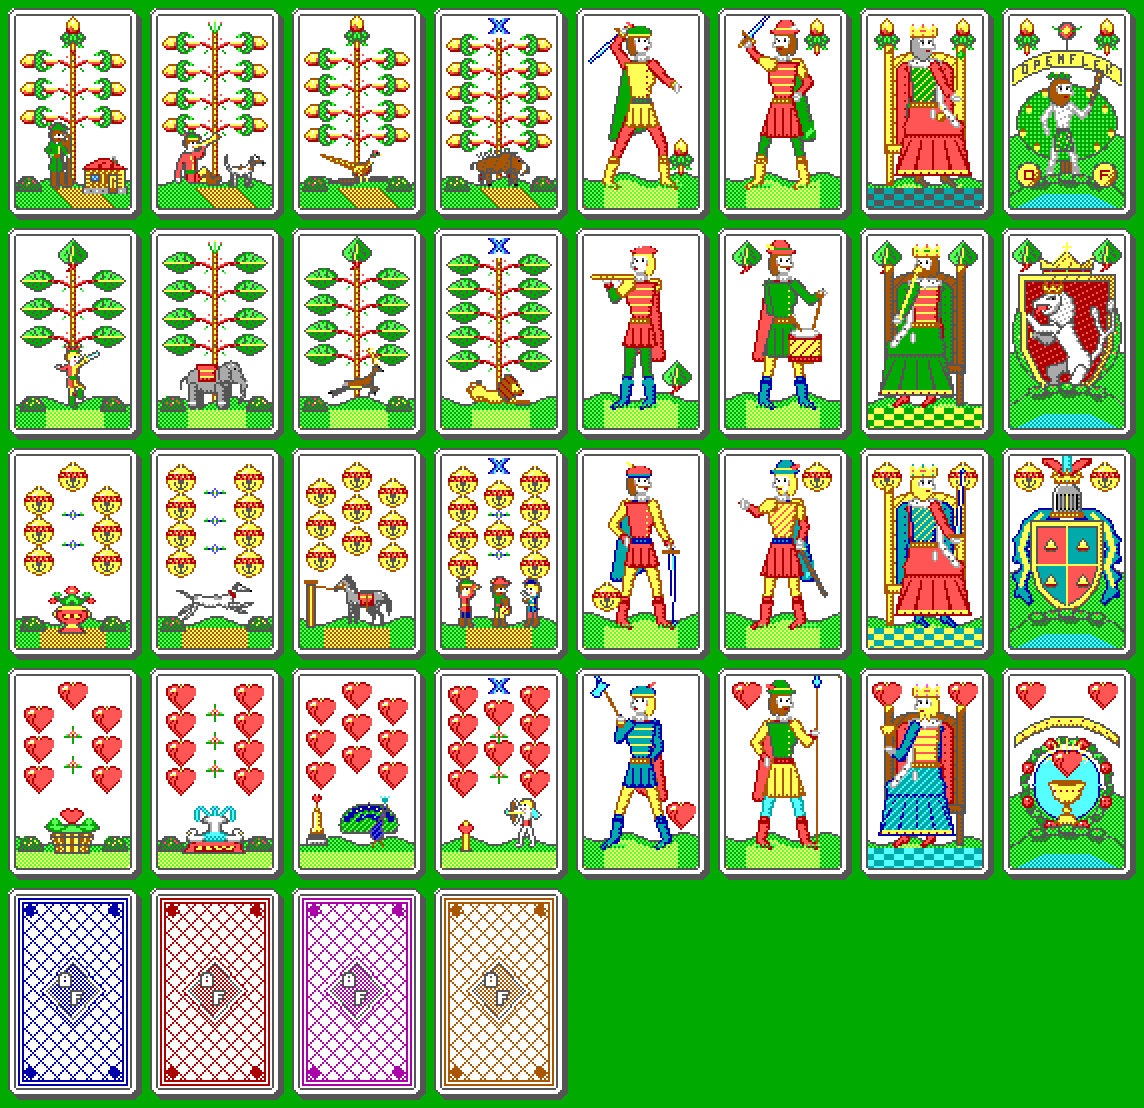
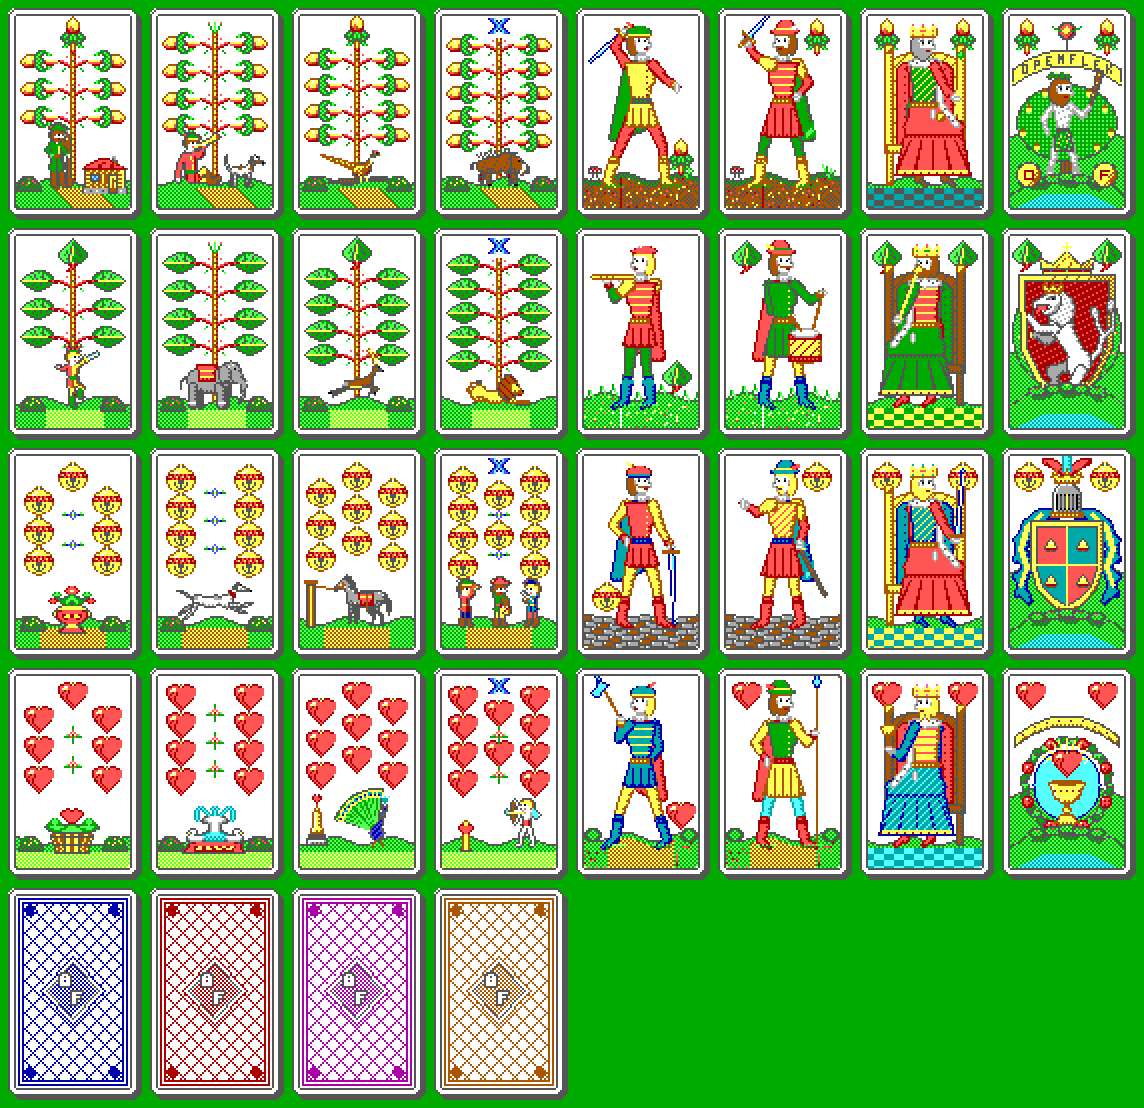
give each suit its own court ground, fan the peacock train as a wedge

diff --git a/scripts/deck_gen/courts.py b/scripts/deck_gen/courts.py
@@ -28,13 +28,66 @@ from scripts.deck_gen.rig import Rig, darker
 from scripts.deck_gen.symbols import draw_suit
 
 
+def _speckle(x, y):
+    """A fixed pseudo-random value per pixel for scattering leaves, flowers and pebbles."""
+    return (x * 73 + y * 151 + x * y * 7) % 97
+
+
+def _ground_colour(suit, x, y, hill_y):
+    """The ground under a standing figure, one kind per suit.
+
+    Acorns stand on a forest floor strewn with fallen leaves, Leaves in a
+    flowering meadow, Bells on the cobbles of a town square and Hearts on a
+    garden lawn with a gravel path between rose beds.
+    """
+    d = y - hill_y
+    h = _speckle(x, y)
+    dither = (x + y) & 1
+    if suit == 0:
+        if d <= 2:
+            return GREEN if dither else DARK_GRAY
+        if h < 5:
+            return YELLOW
+        if h < 8:
+            return RED
+        if h < 10:
+            return LIGHT_RED
+        return BROWN if dither or h > 60 else DARK_GRAY
+    if suit == 1:
+        if h < 4 and d > 1:
+            return YELLOW
+        if h < 7 and d > 1:
+            return WHITE
+        if h < 9 and d > 1:
+            return LIGHT_RED
+        return LIGHT_GREEN if dither else GREEN
+    if suit == 2:
+        # Rows of cobbles, each row offset by half a stone.
+        row, ry = divmod(d - 1, 3)
+        sx = (x + (3 if row & 1 else 0)) % 6
+        if ry == 2 or sx == 5:
+            return DARK_GRAY
+        if ry == 0 and sx == 0:
+            return WHITE
+        return LIGHT_GRAY if (row + (x + (3 if row & 1 else 0)) // 6) % 3 else BROWN
+    if d <= 2:
+        return GREEN if dither else LIGHT_GREEN
+    if 14 <= x <= 46:
+        return YELLOW if dither else BROWN
+    if h < 12:
+        return LIGHT_RED if h < 8 else RED
+    return GREEN if dither else LIGHT_GREEN
+
+
 def draw_pedestal(c, suit, is_king=False):
-    """Draws the rolling turf under a standing figure, or a tiled floor under a throne."""
+    """Draws the ground under a standing figure, or a tiled floor under a throne."""
     for y in range(80, 98):
         for x in range(2, 59):
             if not c.in_interior(x, y):
                 continue
-            wave = int(round(math.sin((x + suit * 9) * 0.22) * 2.0))
+            # The town square is level; the other grounds roll.
+            amp = 0.6 if suit == 2 and not is_king else 2.0
+            wave = int(round(math.sin((x + suit * 9) * 0.22) * amp))
             hill_y = (84 if is_king else 82) + wave
             if y < hill_y:
                 continue
@@ -43,21 +96,40 @@ def draw_pedestal(c, suit, is_king=False):
             elif is_king and y >= 88:
                 tile = ((x // 5) + ((y - 88) // 3)) & 1
                 col = [(CYAN, DARK_GRAY), (GREEN, YELLOW), (YELLOW, CYAN), (LIGHT_CYAN, CYAN)][suit][tile]
-            elif y <= hill_y + 3:
+            elif is_king:
                 col = GREEN if ((x + y) & 1) == 0 else LIGHT_GREEN
-            elif 12 <= x <= 48:
-                col = YELLOW if ((x + y) & 1) == 0 else LIGHT_GREEN
             else:
-                col = GREEN if ((x + y) & 1) == 0 else LIGHT_GREEN
+                col = _ground_colour(suit, x, y, hill_y)
             c.put(x, y, col)
+    if not is_king:
+        _ground_details(c, suit)
 
 
-def _tufts(c, xs, y=87):
-    """Grass tufts over the boot soles so the feet stand in the turf rather than on it."""
+def _ground_details(c, suit):
+    """Small things growing or lying at the edges of each suit's ground."""
+    if suit == 0:  # a toadstool and a fern on the forest floor
+        c.blit_sprite(['.8888.', '84c4c48', '8f4f4f8', '8888888', '..8f8..', '..8f8..', '.8fff8.'], 4, 77)
+        for k in range(4):
+            c.line(53, 83, 50 + k * 2, 76 + k, GREEN if k & 1 else LIGHT_GREEN)
+    elif suit == 1:  # tall grass blades along the meadow's edge
+        for x in range(3, 58, 3):
+            y = 82 + int(round(math.sin((x + 9) * 0.22) * 2.0))
+            c.line(x, y, x + (1 if x % 2 else -1), y - 3 - x % 2, GREEN if x % 2 else LIGHT_GREEN)
+    elif suit == 3:  # clipped box hedges at the corners of the rose beds
+        for hx in (6, 54):
+            c.fill_ellipse(hx, 81, 4, 3, GREEN, LIGHT_GREEN, outline=DARK_GRAY, mode='checker')
+
+
+def _tufts(c, suit, xs, y=87):
+    """Grass over the boot soles so the feet stand in the turf; on cobbles a shadow instead."""
     for bx in xs:
         for dx in range(-4, 5, 2):
-            c.put(bx + dx, y, GREEN)
-            c.put(bx + dx + 1, y - 1, LIGHT_GREEN)
+            if suit == 2:
+                c.put(bx + dx, y + 1, DARK_GRAY)
+                c.put(bx + dx + 1, y + 1, DARK_GRAY)
+            else:
+                c.put(bx + dx, y, GREEN)
+                c.put(bx + dx + 1, y - 1, LIGHT_GREEN if suit != 0 else GREEN)
 
 
 def _ermine(x, y):
@@ -109,7 +181,7 @@ def draw_unter(c, suit):
             F.sword(r, (22, 9), (5, 24))
 
         _standing(c, False, look, arms, legs, back_props=blade)
-        _tufts(c, [16, 45])
+        _tufts(c, suit, [16, 45])
         draw_suit(c, 0, 50, 72, 'v')
 
     elif suit == 1:  # Leaf: playing a transverse flute, facing left
@@ -139,7 +211,7 @@ def draw_unter(c, suit):
                 r.put(x, 22, BROWN)
 
         _standing(c, True, look, arms, legs, front_props=flute)
-        _tufts(c, [21, 33])
+        _tufts(c, suit, [21, 33])
         draw_suit(c, 1, 48, 72, 'v')
 
     elif suit == 2:  # Bell: hand on hip, the other resting on a sword planted point-down
@@ -166,7 +238,7 @@ def draw_unter(c, suit):
             F.sword(r, (45, 47), (47, 85))
 
         _standing(c, False, look, arms, legs, front_props=planted)
-        _tufts(c, [22, 43])
+        _tufts(c, suit, [22, 43])
         draw_suit(c, 2, 13, 72)
 
     else:  # Heart: halberd over the shoulder, walking left
@@ -194,7 +266,7 @@ def draw_unter(c, suit):
             r.part().poly([(50, 3), (53, 0), (52, 6)]).paint(LIGHT_CYAN, None, outline=BLUE)
 
         _standing(c, True, look, arms, legs, back_props=halberd)
-        _tufts(c, [17, 40])
+        _tufts(c, suit, [17, 40])
         draw_suit(c, 3, 50, 72)
 
 
@@ -227,7 +299,7 @@ def draw_ober(c, suit):
             F.sword(r, (49, 14), (37, 1))
 
         _standing(c, True, look, arms, legs, front_props=blade, pose=OBER_COAT)
-        _tufts(c, [19, 42])
+        _tufts(c, suit, [19, 42])
         draw_suit(c, 0, 47, 12, 'v')
 
     elif suit == 1:  # Leaf: drummer with the drum slung at his hip
@@ -260,7 +332,7 @@ def draw_ober(c, suit):
             F.pole(r, (50, 30), (45, 48))
 
         _standing(c, False, look, arms, legs, front_props=drum, pose=OBER_COAT)
-        _tufts(c, [21, 43])
+        _tufts(c, suit, [21, 43])
         draw_suit(c, 1, 12, 12, 'v')
 
     elif suit == 2:  # Bell: hand on sword hilt at his side, the other open in greeting, facing left
@@ -292,7 +364,7 @@ def draw_ober(c, suit):
             r.part().capsule(19, 48, 25, 46, 0.7).fill(YELLOW)
 
         _standing(c, True, look, arms, legs, back_props=scabbard, pose=OBER_COAT)
-        _tufts(c, [22, 41])
+        _tufts(c, suit, [22, 41])
         draw_suit(c, 2, 47, 12)
 
     else:  # Heart: spear upright in one hand, the other on his hip
@@ -320,7 +392,7 @@ def draw_ober(c, suit):
             r.part().poly([(47, -1), (49, 5), (47, 8), (45, 5)]).paint(LIGHT_CYAN, None, outline=BLUE)
 
         _standing(c, False, look, arms, legs, back_props=spear, pose=OBER_COAT)
-        _tufts(c, [21, 44])
+        _tufts(c, suit, [21, 44])
         draw_suit(c, 3, 12, 12)
 
 

diff --git a/scripts/deck_gen/animals.py b/scripts/deck_gen/animals.py
@@ -230,19 +230,28 @@ def draw_pheasant(c, flip=False, dx=0, scale=1.0):
 
 
 def draw_peacock(c, flip=False, dx=0, scale=1.0):
-    """A peacock in display, the train fanned behind it with eyed feathers."""
+    """A peacock in display, its train raised behind it in a wedge of radiating, eyed feathers."""
     r = Rig(c, flip=flip, dx=dx, scale=scale)
-    fan = r.part().ellipse(26, 76, 15, 11).clip(y1=int(r.tx(0, 80)[1]))
-    fan.paint(GREEN, outline=DARK_GRAY, pattern=lambda x, y: LIGHT_GREEN if (x + y) % 3 == 0 else None)
-    for k in range(9):
-        a = math.radians(200 + k * 17.5)
-        ex, ey = 26 + math.cos(a) * 11.5, 76 + math.sin(a) * 8.5
-        r.part().ellipse(ex, ey, 1.8, 1.8).paint(YELLOW, None, outline=BLUE)
+    ox, oy = 30, 80
+    lo, hi, reach = 198, 278, 21
+
+    def polar(deg, rad):
+        a = math.radians(deg)
+        return ox + math.cos(a) * rad, oy + math.sin(a) * rad
+
+    # The wedge, its rim fringed by the feather tips.
+    fan = r.part().poly([(ox, oy)] + [polar(lo + (hi - lo) * k / 12, reach) for k in range(13)])
+    feathers = 11
+    for k in range(feathers):
+        fan.ellipse(*polar(lo + (hi - lo) * (k + 0.5) / feathers, reach - 0.5), 2.2, 2.2)
+    fan.paint(GREEN, shade=None, outline=DARK_GRAY)
+    # Shafts radiating from the rump, each ending in an eye.
+    for k in range(feathers):
+        deg = lo + (hi - lo) * (k + 0.5) / feathers
+        r.line(*polar(deg, 5), *polar(deg, reach - 3), LIGHT_GREEN)
+        ex, ey = polar(deg, reach - 1.5)
+        r.part().ellipse(ex, ey, 1.9, 1.9).paint(CYAN, None, outline=YELLOW)
         r.put(ex, ey, BLUE)
-    for k in range(5):
-        a = math.radians(215 + k * 27)
-        ex, ey = 26 + math.cos(a) * 6.5, 76 + math.sin(a) * 4.5
-        r.part().ellipse(ex, ey, 1.4, 1.4).paint(LIGHT_CYAN, None, outline=BLUE)
     body = r.part().ellipse(30, 80, 4, 4.5).capsule(31, 77, 34, 68, 1.8, 1.3).ellipse(34, 67, 1.8, 1.6)
     body.paint(BLUE, shade=DARK_GRAY, outline=DARK_GRAY, pattern=lambda x, y: LIGHT_BLUE if (x + y) % 3 == 0 else None)
     r.put(36, 67, YELLOW)
